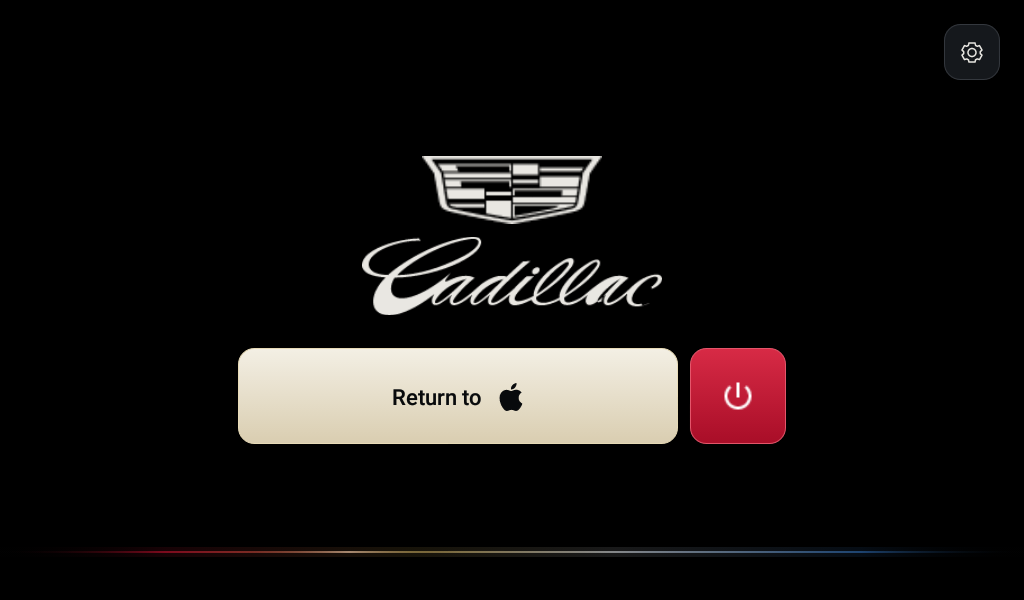
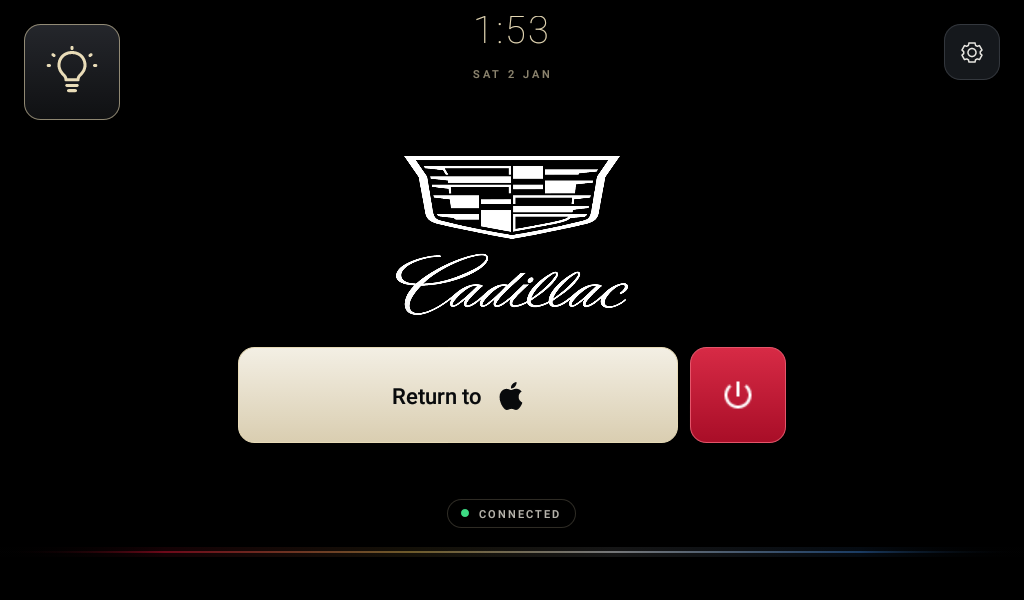
Update README, design notes and screenshots for the Lighting page, auto-connect, clock and screen timeout

diff --git a/README.md b/README.md
@@ -29,11 +29,20 @@ Android 5.1 host in `legacy/` and the tablet appliance setup in `tablet-setup/`.
   rate changes offer an app restart.
 - **Startup:** your own Cadillac splash animation (Full, Short or Off), pure black theme with a faint crest-colour
   line, and the app can be the tablet's Home app and open at boot.
+- **Auto-connect:** connects to the saved iPhone when the app opens and whenever its Bluetooth link comes up, and
+  retries (5, 10, 20, then 40 s, up to 8 tries) if a connection fails or drops. Switch it off in Settings > Connection.
+  A small pill at the bottom of Home shows Ready, Connecting, Connected, Reconnecting or Not connected.
+- **Clock and dim mode:** a thin clock and date sit at the top of Home. After a few seconds without a touch (10 s to
+  5 min, or never; set in Settings) everything fades to just the Cadillac logo, and a touch wakes it.
+- **Lighting:** the square button at the top left opens a page with car-interior line art that takes the colour you pick
+  from 14 dots. The same colour is sent to a Bluetooth LE LED strip (Lotus Lantern style ELK-BLEDOM or Triones
+  controllers) saved in Settings > LED strip; the scanner can be limited to nearby signals. LED control has not been
+  tested on real strip hardware yet.
 - **Light:** about 30 MB of RAM during a session; video runs at roughly 17 to 25 fps on this chip.
 
-| Resolution | Settings |
-| --- | --- |
-| ![Resolution](docs/cts/resolution.png) | ![Settings](docs/cts/settings.png) |
+| Lighting | Settings | Resolution |
+| --- | --- | --- |
+| ![Lighting](docs/cts/lighting.png) | ![Settings](docs/cts/settings.png) | ![Resolution](docs/cts/resolution.png) |
 
 ## Build
 
@@ -58,7 +67,8 @@ animation needs root, which this project does not provide or document.
 ## Status
 
 Verified on the Snook C70R (Android 5.1) with one iPhone: wireless CarPlay over the tablet hotspot, video, touch,
-fullscreen, hotspot restart, disconnect. **Not verified:** music and call audio, long sessions, other tablets or
+fullscreen, hotspot restart, disconnect, auto-connect on launch. **Not verified:** music and call audio, LED strip
+control on real hardware, reconnect retries in the car, long sessions, other tablets or
 iOS versions. A video decoder error can appear and recover when the app is sent to the background.
 
 ## Credits and licence

diff --git a/legacy/DESIGN.md b/legacy/DESIGN.md
@@ -34,6 +34,9 @@ reveal its navigation controls.
 
 Settings has a Video section: resolution presets (640 � 384, 800 � 480 default, 1024 � 600 native, 1280 � 720 experimental) and frame rate (20, 24, 30 fps). Choices apply the next time CarPlay connects; touch is normalized, so every size maps correctly.
 
-Theme: pure black surfaces with a thin line in the crest colours (red, gold, silver, blue) near the bottom of Home and the splash. A faint sheen drifts along it and the line only animates while visible. The splash plays the owner-supplied GIF once, pre-scaled 2x with Lanczos for sharpness, then fades into Home. The Connect button reads Connect with the Apple logo and shows a turning arc with Connecting while the hotspot and iPhone link come up. Changing resolution or frame rate offers an app restart so the next connection uses it.
+Theme: pure black surfaces with a thin line in the crest colours (red, gold, silver, blue) near the bottom of Home and the splash. A faint sheen drifts along it and the line only animates while visible. The splash plays the owner-supplied GIF once, pre-scaled 2x with Lanczos for sharpness, then fades into Home. The Connect button reads Connect with the Apple logo and shows a turning arc with Connecting while the hotspot and iPhone link come up. Changing resolution or frame rate offers an app restart so the next connection uses it. Home also carries a thin champagne clock, a small link-status pill, an icon-only Lighting button (top left) and the
+settings gear (top right). The Lighting page tints the supplied line art with the chosen colour, and pages ease in with
+a short fade and slide. After the screen timeout Home fades to the centred logo (1.45x) under a 98 % black overlay.
+The logos are the supplied high-resolution PNGs; only the splash still plays the GIF.
 
 While CarPlay is connected or connecting, a small red icon-only box beside the Return button disconnects it. Settings > Startup animation chooses Full, Short or Off for the next launch.

diff --git a/legacy/README.md b/legacy/README.md
@@ -4,6 +4,10 @@ This module reuses DiPlay's CarPlay engine with a small platform Android UI for
 32-bit Android 5.1 tablets. It is a development backport, not a supported DiPlay
 release. App launch alone does not establish successful CarPlay operation.
 
+The Cadillac CTS Dashboard layer (one-tap Connect over the tablet hotspot, auto-connect and retries, LED lighting page, screen
+timeout) is described in the repository [README](../README.md) and [HANDOFF](../HANDOFF.md). The notes below are the original
+engine-port scope and are partly superseded by it.
+
 ## Scope
 
 - Wired USB and experimental wireless over the existing Wi-Fi LAN, with explicit Start and Stop controls.
